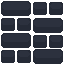
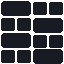
feat: update background tile rendering with improved sampling and configuration adjustments

diff --git a/js/bg.js b/js/bg.js
@@ -3,7 +3,7 @@
 
    ・圖片：assets/img/bg-tile.png（64×64，會放大 TILE_SCALE 倍後無限重複）
    ・移動是連續的（不是一格一格跳），所以很流暢
-   ・貼圖用 NEAREST 取樣，放大後像素邊緣保持銳利
+   ・用「銳利雙線性」取樣：像素保持硬邊，但邊界有 1 螢幕像素的平滑，慢速移動才不會抖
    ・圖片透明的部分會露出底色 BG_COLOR
 
    想調整 → 改下面 CONFIG 就好。
@@ -12,10 +12,10 @@
   const CONFIG = {
     image: 'assets/img/bg-tile.png',
     TILE_SCALE: 5,             // 圖片放大倍數（CSS 像素）
-    SPEED_X: 12,               // 每秒往左移動幾個 CSS 像素
-    SPEED_Y: 12,               // 每秒往上移動幾個 CSS 像素
-    BG_COLOR: [0x12 / 255, 0x0a / 255, 0x13 / 255],   // 透明處的底色（更深的紫黑）
-    TINT: [0.55, 0.50, 0.62],  // 磚塊亮度 / 染色：數字越小越暗（1.0 = 原圖），偏紫一點
+    SPEED_X: 18,               // 每秒往左移動幾個 CSS 像素
+    SPEED_Y: 18,               // 每秒往上移動幾個 CSS 像素
+    BG_COLOR: [0x12 / 255, 0x0a / 255, 0x13 / 255],   // 透明處的底色
+    TINT: [1.0, 1.0, 1.0],     // 磚塊亮度 / 染色：數字越小越暗（1.0 = 原圖）
   };
 
   const canvas = document.getElementById('bg');
@@ -35,12 +35,22 @@
     uniform vec2  u_offset;     // 位移（裝置像素）
     uniform vec3  u_bg;
     uniform vec3  u_tint;
+    uniform vec2  u_texSize;    // 原圖像素尺寸（64×64）
+    uniform float u_texelPerPx; // 一個螢幕像素等於幾個原圖像素（= 1 / (scale*dpr)）
     void main() {
-      // 螢幕像素 → 貼圖 uv（fract 讓它無限重複；y 方向翻轉讓圖片不上下顛倒）
-      vec2 uv = fract((gl_FragCoord.xy + u_offset) / u_tileSize);
-      uv.y = 1.0 - uv.y;
+      // 螢幕像素 → 原圖像素座標（連續值，帶小數）
+      vec2 texel = (gl_FragCoord.xy + u_offset) / u_tileSize * u_texSize;
+      texel.y = -texel.y;   // 翻轉 y，讓圖片不上下顛倒（REPEAT 會處理負數）
+
+      // 「銳利雙線性」：只在原圖像素的邊界一個螢幕像素寬的範圍內做漸變，
+      // 其他地方維持像素風的硬邊。這樣次像素移動時邊緣是連續滑過去的，不會一格一格跳。
+      vec2 f = fract(texel);
+      vec2 w = vec2(u_texelPerPx);
+      vec2 fs = clamp(f / w, 0.0, 0.5) + clamp((f - 1.0) / w + 0.5, 0.0, 0.5);
+      vec2 uv = (floor(texel) + fs) / u_texSize;
+
       vec4 c = texture2D(u_tex, uv);
-      vec3 col = mix(u_bg, c.rgb * u_tint, c.a);
+      vec3 col = u_bg * (1.0 - c.a) + c.rgb * u_tint;   // c 已預乘 alpha
       gl_FragColor = vec4(col, 1.0);
     }
   `;
@@ -69,6 +79,8 @@
     offset: gl.getUniformLocation(prog, 'u_offset'),
     bg: gl.getUniformLocation(prog, 'u_bg'),
     tint: gl.getUniformLocation(prog, 'u_tint'),
+    texSize: gl.getUniformLocation(prog, 'u_texSize'),
+    texelPerPx: gl.getUniformLocation(prog, 'u_texelPerPx'),
   };
   gl.uniform3fv(U.bg, CONFIG.BG_COLOR);
   gl.uniform3fv(U.tint, CONFIG.TINT);
@@ -77,8 +89,9 @@
   const tex = gl.createTexture();
   gl.bindTexture(gl.TEXTURE_2D, tex);
   gl.texImage2D(gl.TEXTURE_2D, 0, gl.RGBA, 1, 1, 0, gl.RGBA, gl.UNSIGNED_BYTE, new Uint8Array([0, 0, 0, 0])); // 先放 1px 佔位
-  gl.texParameteri(gl.TEXTURE_2D, gl.TEXTURE_MIN_FILTER, gl.NEAREST);
-  gl.texParameteri(gl.TEXTURE_2D, gl.TEXTURE_MAG_FILTER, gl.NEAREST);
+  // 用 LINEAR 配合上面的銳利雙線性公式：邊緣才會有 1px 的平滑過渡（像素本身仍是硬邊）
+  gl.texParameteri(gl.TEXTURE_2D, gl.TEXTURE_MIN_FILTER, gl.LINEAR);
+  gl.texParameteri(gl.TEXTURE_2D, gl.TEXTURE_MAG_FILTER, gl.LINEAR);
   gl.texParameteri(gl.TEXTURE_2D, gl.TEXTURE_WRAP_S, gl.REPEAT);
   gl.texParameteri(gl.TEXTURE_2D, gl.TEXTURE_WRAP_T, gl.REPEAT);
   gl.uniform1i(U.tex, 0);
@@ -88,7 +101,7 @@
   img.onload = () => {
     imgW = img.naturalWidth; imgH = img.naturalHeight;
     gl.bindTexture(gl.TEXTURE_2D, tex);
-    gl.pixelStorei(gl.UNPACK_PREMULTIPLY_ALPHA_WEBGL, false);
+    gl.pixelStorei(gl.UNPACK_PREMULTIPLY_ALPHA_WEBGL, true);   // 預乘 alpha：邊緣混色時不會出現黑邊
     gl.texImage2D(gl.TEXTURE_2D, 0, gl.RGBA, gl.RGBA, gl.UNSIGNED_BYTE, img);
   };
   img.src = CONFIG.image;
@@ -97,8 +110,9 @@
   let dpr = 1;
   function resize() {
     dpr = Math.min(window.devicePixelRatio || 1, 2);
-    canvas.width = Math.floor(window.innerWidth * dpr);
-    canvas.height = Math.floor(window.innerHeight * dpr);
+    // 用 round 讓 canvas 像素數和實際螢幕像素對齊，避免瀏覽器再做一次縮放造成閃爍
+    canvas.width = Math.round(window.innerWidth * dpr);
+    canvas.height = Math.round(window.innerHeight * dpr);
     gl.viewport(0, 0, canvas.width, canvas.height);
   }
   window.addEventListener('resize', resize);
@@ -126,6 +140,8 @@
     ox %= tileW / dpr; oy %= tileH / dpr;
 
     gl.uniform2f(U.tileSize, tileW, tileH);
+    gl.uniform2f(U.texSize, imgW, imgH);
+    gl.uniform1f(U.texelPerPx, 1 / (CONFIG.TILE_SCALE * dpr));
     gl.uniform2f(U.offset, ox * dpr, oy * dpr);
     gl.drawArrays(gl.TRIANGLES, 0, 3);
     requestAnimationFrame(frame);
